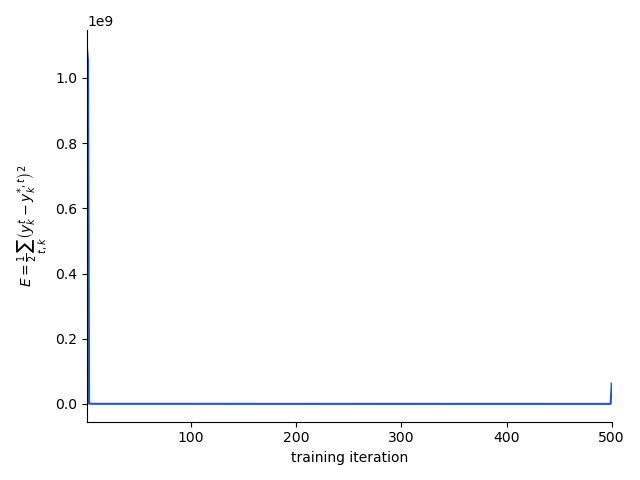
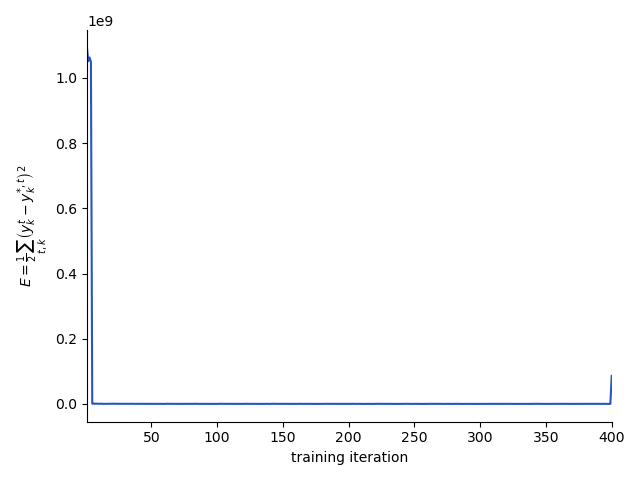
Add the possibility of choosing different values of batches and samples

diff --git a/eprop-motor-control/eprop-reaching-task.py b/eprop-motor-control/eprop-reaching-task.py
@@ -105,7 +105,7 @@ duration = {
     "step": step_ms,
     "sequence": task_cfg["sequence"] * step_ms,
     "learning_window": task_cfg["sequence"] * step_ms,
-    "task": n_iter * n_batch * task_cfg["sequence"] * n_samples * step_ms,
+    "task": n_samples * n_iter * n_batch * task_cfg["sequence"],
     "offset_gen": task_cfg["offset_gen"] * step_ms,
     "delay_in_rec": task_cfg["delay_in_rec"] * step_ms,
     "delay_rec_out": task_cfg["delay_rec_out"] * step_ms,
@@ -241,20 +241,20 @@ w_default = config["synapses"]["w_default"]
 w_rec = config["synapses"]["w_rec"]
 g = config["synapses"]["g"]
 
-params_common_syn_eprop = {
-    "optimizer": config["synapses"]["exc"]["optimizer"],
-    "average_gradient": config["synapses"]["average_gradient"],
-    "weight_recorder": wr,
-}
-
 params_syn_eprop_exc = {
-    "optimizer": config["synapses"]["exc"]["optimizer"],
+    "optimizer": {
+        **config["synapses"]["exc"]["optimizer"],
+        "batch_size": n_batch,
+    },
     "average_gradient": config["synapses"]["average_gradient"],
     "weight_recorder": wr,
 }
 
 params_syn_eprop_inh = {
-    "optimizer": config["synapses"]["inh"]["optimizer"],
+    "optimizer": {
+        **config["synapses"]["inh"]["optimizer"],
+        "batch_size": n_batch,
+    },
     "weight": config["synapses"]["inh"]["weight"],
     "average_gradient": config["synapses"]["average_gradient"],
     "weight_recorder": wr,
@@ -310,7 +310,6 @@ params_syn_static = {
 
 ####################
 
-nest.SetDefaults("eprop_synapse_bsshslm_2020", params_common_syn_eprop)
 nest.CopyModel(
     "eprop_synapse_bsshslm_2020", "eprop_synapse_bsshslm_2020_exc", params_syn_eprop_exc
 )
@@ -379,7 +378,17 @@ dataset_path = (
 )
 training_dataset = load_data_file(str(dataset_path))
 
-sample_ids = list(range(n_samples))  # indices of the samples to load
+# In the dataset, each batch contains 10 samples, so if we select 2 batches and 5 samples per batch,
+# we get 10 samples in total.
+# Create a list of indices for the selected batches and samples
+samples_per_batch = 10  # Number of samples per batch
+sample_ids = []
+
+for batch in range(n_batch):
+    start_index = batch * samples_per_batch  # Calculate the starting index of the batch
+    sample_ids.extend(range(start_index, start_index + n_samples))
+
+
 trajectories = []
 desired_targets_list = {"pos": [], "neg": []}
 
@@ -431,6 +440,7 @@ for sample_id in sample_ids:
 def gaussian_rbf(x, center, width):
     return np.exp(-((x - center) ** 2) / (2 * width**2))
 
+# Prepare RBF inputs for all samples (trajectories)
 rbf_inputs_list = []
 for trajectory_sample in trajectories:
     rbf_inputs = np.zeros((len(trajectory_sample), num_centers))
@@ -445,7 +455,7 @@ params_gen_poisson_in = [
     {
         "rate_times": np.arange(0.0, duration["task"], duration["step"])
         + duration["offset_gen"],
-        "rate_values": np.tile(rate_based_rbf_inputs[:, n_center], n_iter * n_batch),
+        "rate_values": np.tile(rate_based_rbf_inputs[:, n_center], n_iter),
     }
     for n_center in range(num_centers)
 ]
@@ -471,7 +481,7 @@ params_gen_rate_target = [
     {
         "amplitude_times": np.arange(0.0, duration["task"], duration["step"])
         + duration["total_offset"],
-        "amplitude_values": np.tile(concatenated_desired_targets[key] * 1e1, n_iter * n_batch),
+        "amplitude_values": np.tile(concatenated_desired_targets[key] * 1e1, n_iter),
     }
     for key in concatenated_desired_targets.keys()
 ]
@@ -593,10 +603,10 @@ plt.rcParams.update(
 
 fig, ax = plt.subplots()
 
-ax.plot(range(1, n_samples*n_iter + 1), loss)
+ax.plot(range(1, n_iter*n_samples*n_batch + 1), loss)
 ax.set_ylabel(r"$E = \frac{1}{2} \sum_{t,k} \left( y_k^t -y_k^{*,t}\right)^2$")
 ax.set_xlabel("training iteration")
-ax.set_xlim(1, n_samples*n_iter)
+ax.set_xlim(1, n_iter*n_samples*n_batch)
 ax.xaxis.get_major_locator().set_params(integer=True)
 
 fig.tight_layout()
@@ -641,8 +651,8 @@ def plot_spikes(ax, events, nrns, ylabel, xlims):
 
 
 for xlims in [
-    (0, duration["sequence"] * n_samples),
-    (duration["task"] - duration["sequence"] * n_samples, duration["task"]),
+    (0, duration["sequence"]),
+    (duration["task"] - duration["sequence"], duration["task"]),
 ]:
     fig, axs = plt.subplots(8, 1, sharex=True, figsize=(4, 12))
 
